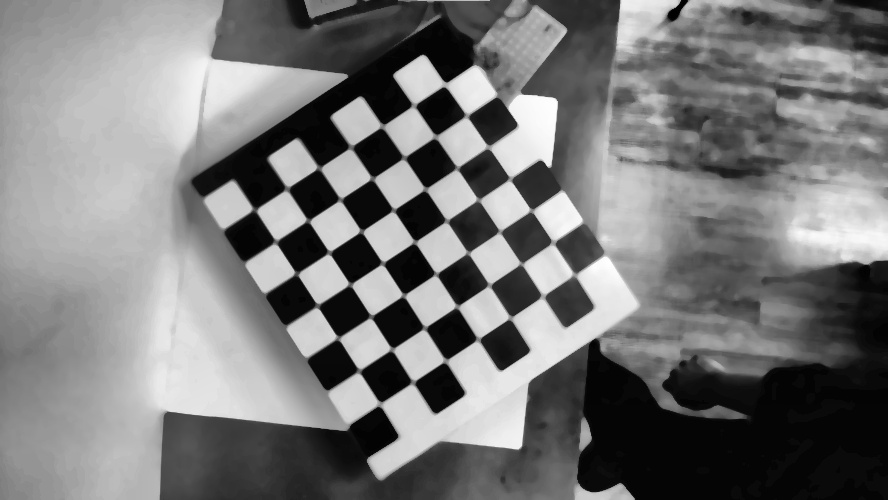
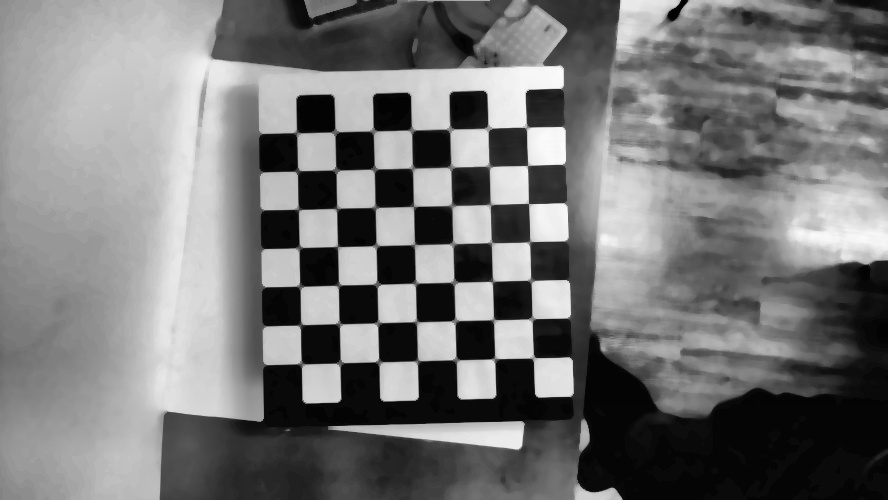
warp and crop

diff --git a/utlis.py b/utlis.py
@@ -30,7 +30,7 @@ def distort(fname):
     # crop the image
     x, y, w, h = roi
     dst = dst[y:y+h, x:x+w]
-    dst     = image_resize(dst, height = 500)
+    dst     = image_resize(dst, height = 640)
     cv2.imshow('dst',dst)
     cv2.waitKey()
     return dst
@@ -95,8 +95,8 @@ def houghline(gray):
                 l = linesP[i][0]
                 cv2.line(cdstP, (l[0], l[1]), (l[2], l[3]), (0,0,255), 3, cv2.LINE_AA)
         
-        cv2.imshow("Detected Lines (in red) - Standard Hough Line Transform", cdst)
-        cv2.imshow("Detected Lines (in red) - Probabilistic Line Transform", cdstP)
+        # cv2.imshow("Detected Lines (in red) - Standard Hough Line Transform", cdst)
+        # cv2.imshow("Detected Lines (in red) - Probabilistic Line Transform", cdstP)
         
         return cdst
 
@@ -147,7 +147,7 @@ def sort_order(org_list):
 def detect_chessboard(img, gray):
     nRows = 6
     nCols = 6
-    dimension = 20
+    dimension = 25
 
     chess_list = []
 
@@ -173,14 +173,11 @@ def detect_chessboard(img, gray):
 
         # Draw and display the corners
         cv2.drawChessboardCorners(img, (nCols,nRows), corners2,ret)
-        #print(corners2)
-        # cv2.imshow('img',img)
+
+        # cv2.imshow('Detect chessboard',img)
         # cv2.waitKey()
-        # print("Image accepted")
         objpoints.append(objp)
         imgpoints.append(corners2)
-
-        # cv2.waitKey(0)
     else:
         print("Image declined")
 
@@ -190,7 +187,7 @@ def detect_chessboard(img, gray):
 
     return chess_list
 
-def field_contour(img):
+def field_contour(img, name):
     gray = cv2.cvtColor(img, cv2.COLOR_BGR2GRAY) 
     #gray = cv2.equalizeHist(gray)
     #gray = cv2.medianBlur(gray,9)  
@@ -200,7 +197,7 @@ def field_contour(img):
     gray_cp = gray.copy() 
     gray_blur = cv2.medianBlur(gray_cp,7)
     gray = cv2.medianBlur(gray_cp,3)
-    cv2.imwrite('data/gray.jpg', gray_blur)
+    cv2.imwrite(name, gray_blur)
     # cv2.imshow('gray',gray)
     # cv2.waitKey()
 
@@ -559,7 +556,6 @@ def define_side(full_chess_corner, chess_corner,edited_img, img):
             elif final_coor[i] == main_coor[1]:
                 final_coor[i] = new_coor[1]
 
-        for i in range(len(final_coor)):
             if final_coor[i] == result[error_index][0]:
                 if result[error_index][3] == 0:
                     final_coor[i] = full_chess_corner[1]
@@ -580,7 +576,7 @@ def define_side(full_chess_corner, chess_corner,edited_img, img):
                 elif result[error_index][3] == 3:
                     final_coor[i] = full_chess_corner[89]
 
-    w = 500
+    w = 640
     src_pts = np.array(final_coor, dtype="float32")
     dst_pts = np.array([[0, w],
                         [0, 0],
@@ -590,7 +586,44 @@ def define_side(full_chess_corner, chess_corner,edited_img, img):
     M = cv2.getPerspectiveTransform(src_pts, dst_pts)
     warped = cv2.warpPerspective(img, M, (w, w))
 
-    return warped, test
+    return warped, test, final_coor
+
+def draw_line(img):
+    d = 0
+    for x in range(8):        
+        c1 = ((x*80)+d,0)
+        c2 = ((x*80)+d,640)
+        cv2.line(img,c1,c2,(255,255,255),7)
+    for y in range(8):        
+        c1 = (0,(y*80)+d)
+        c2 = (640,(y*80)+d)
+        cv2.line(img,c1,c2,(255,255,255),7)
+    return img
+
+def crop_img(img):
+    for x in range(8): 
+        for y in range(8):
+            c1 = (x*80,(y+1)*80)
+            c2 = (x*80,y*80)
+            c3 = ((x+1)*80,y*80)
+            c4 = ((x+1)*80,(y+1)*80)
+            w = 80
+
+            coor = [c1, c2, c3, c4]
+            src_pts = np.array(coor, dtype="float32")
+            dst_pts = np.array([[0, w],
+                                [0, 0],
+                                [w, 0],
+                                [w, w]], dtype="float32")
+            matrix = cv2.getPerspectiveTransform(src_pts, dst_pts)
+            M = cv2.getPerspectiveTransform(src_pts, dst_pts)
+            warped = cv2.warpPerspective(img, M, (w, w))
+            
+            letter = ['h', 'g', 'f', 'e', 'd', 'c', 'b', 'a']
+            num = ['8', '7', '6', '5', '4', '3', '2', '1']
+            fname = '.cropped/'+ letter[x] + num[y] + '.jpg'
+            # print(fname)
+            cv2.imwrite(fname, warped)
 
 
 # ----------------------------------------------------------------------

diff --git a/main.py b/main.py
@@ -26,7 +26,7 @@ else:
         img     = cv2.imread(fname)
         img     = utlis.image_resize(img, height = 500)
         gray    = cv2.cvtColor(img,cv2.COLOR_BGR2GRAY)
-        utlis.field_contour(img.copy())
+        utlis.field_contour(img.copy(), './data/gray.jpg')
         gray_edit_color = cv2.imread('./data/gray.jpg')
         gray_edit    = cv2.cvtColor(gray_edit_color,cv2.COLOR_BGR2GRAY)
 
@@ -38,15 +38,27 @@ else:
         full_chess_corner = utlis.find_edge(new_chess_corner,8,1)
         temp_chess_corner = utlis.find_edge(new_chess_corner,8,1/8)
 
-        # Defineside and warp chessboard              
-        warped, test = utlis.define_side(full_chess_corner, temp_chess_corner, gray_edit.copy(), gray.copy())
-        
+        # Defineside and warp chessboard             
+        warped, test, warp_coor = utlis.define_side(full_chess_corner, temp_chess_corner, gray_edit.copy(), gray.copy())
+
+        # Draw line on chessboard
+        cv2.imwrite('./data/warpped.jpg', warped) 
+        warped = cv2.imread('./data/warpped.jpg')
+        utlis.field_contour(warped, './data/warpped.jpg')
+        warped = cv2.imread('./data/warpped.jpg')
+    
         # Displaying the image 
         image = gray_edit_color.copy()
         for i in temp_chess_corner  :
             image = cv2.circle(image, (int(i[0]),int(i[1])), 3, (0,0,255), -1)
+        
+        withLine = utlis.houghline(warped.copy())
+        withLine2 = utlis.draw_line(warped.copy())
+        utlis.crop_img(withLine2)
+
         cv2.imshow('new', image)
         cv2.imshow('warp', warped)
+        cv2.imshow('withLine', withLine2)
         cv2.waitKey()
                 
 cv2.destroyAllWindows()
